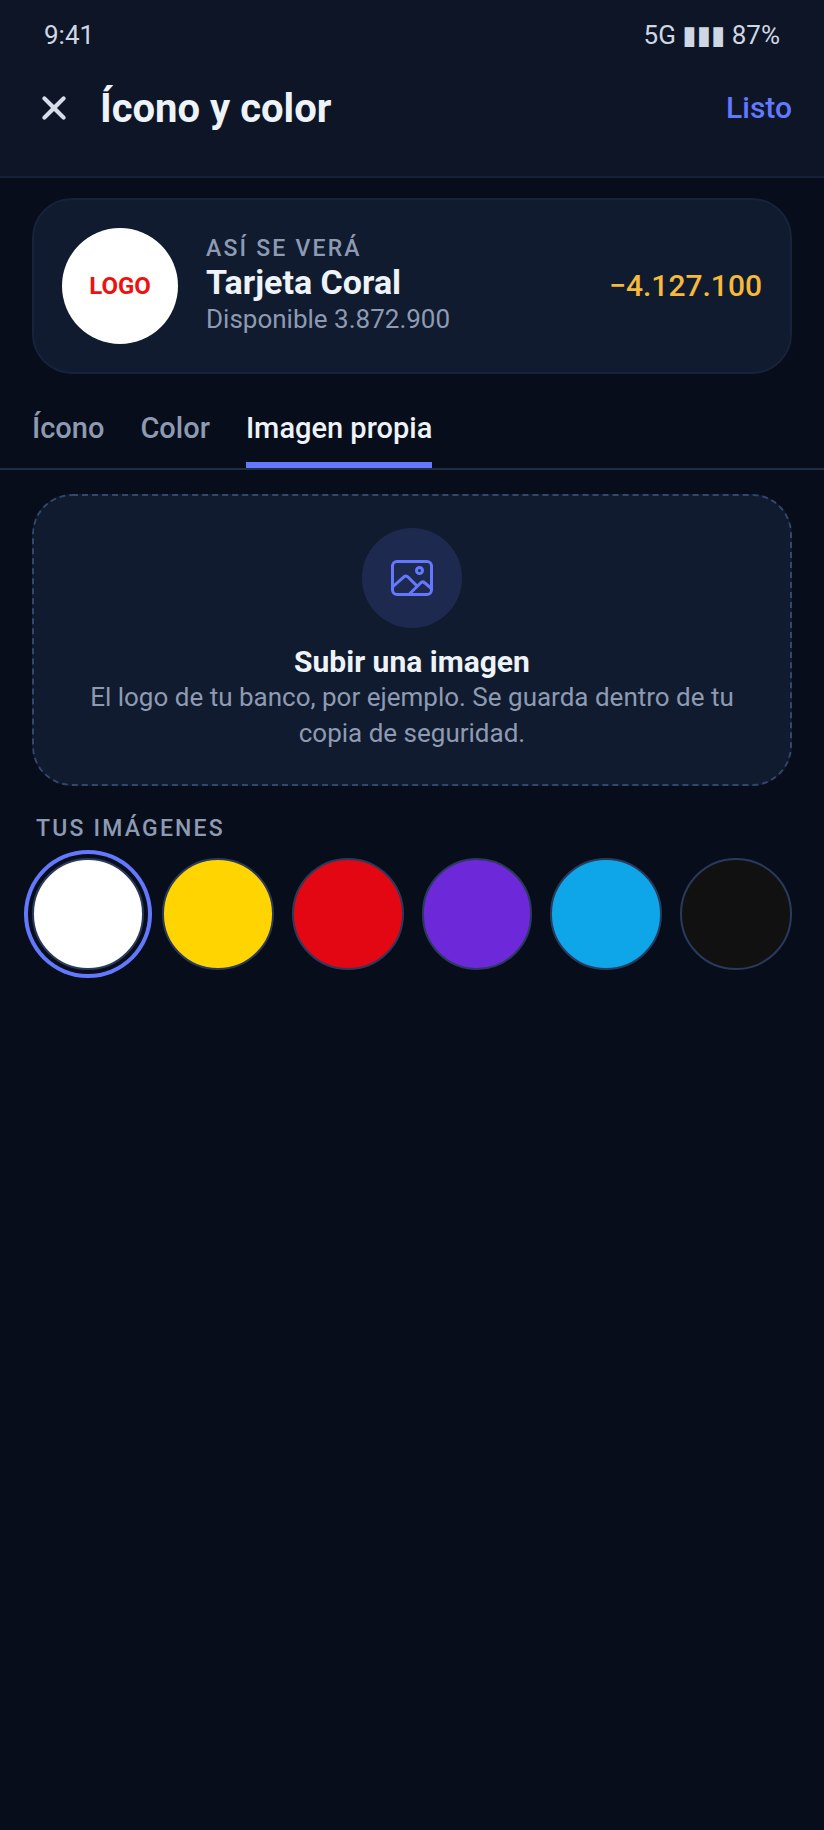
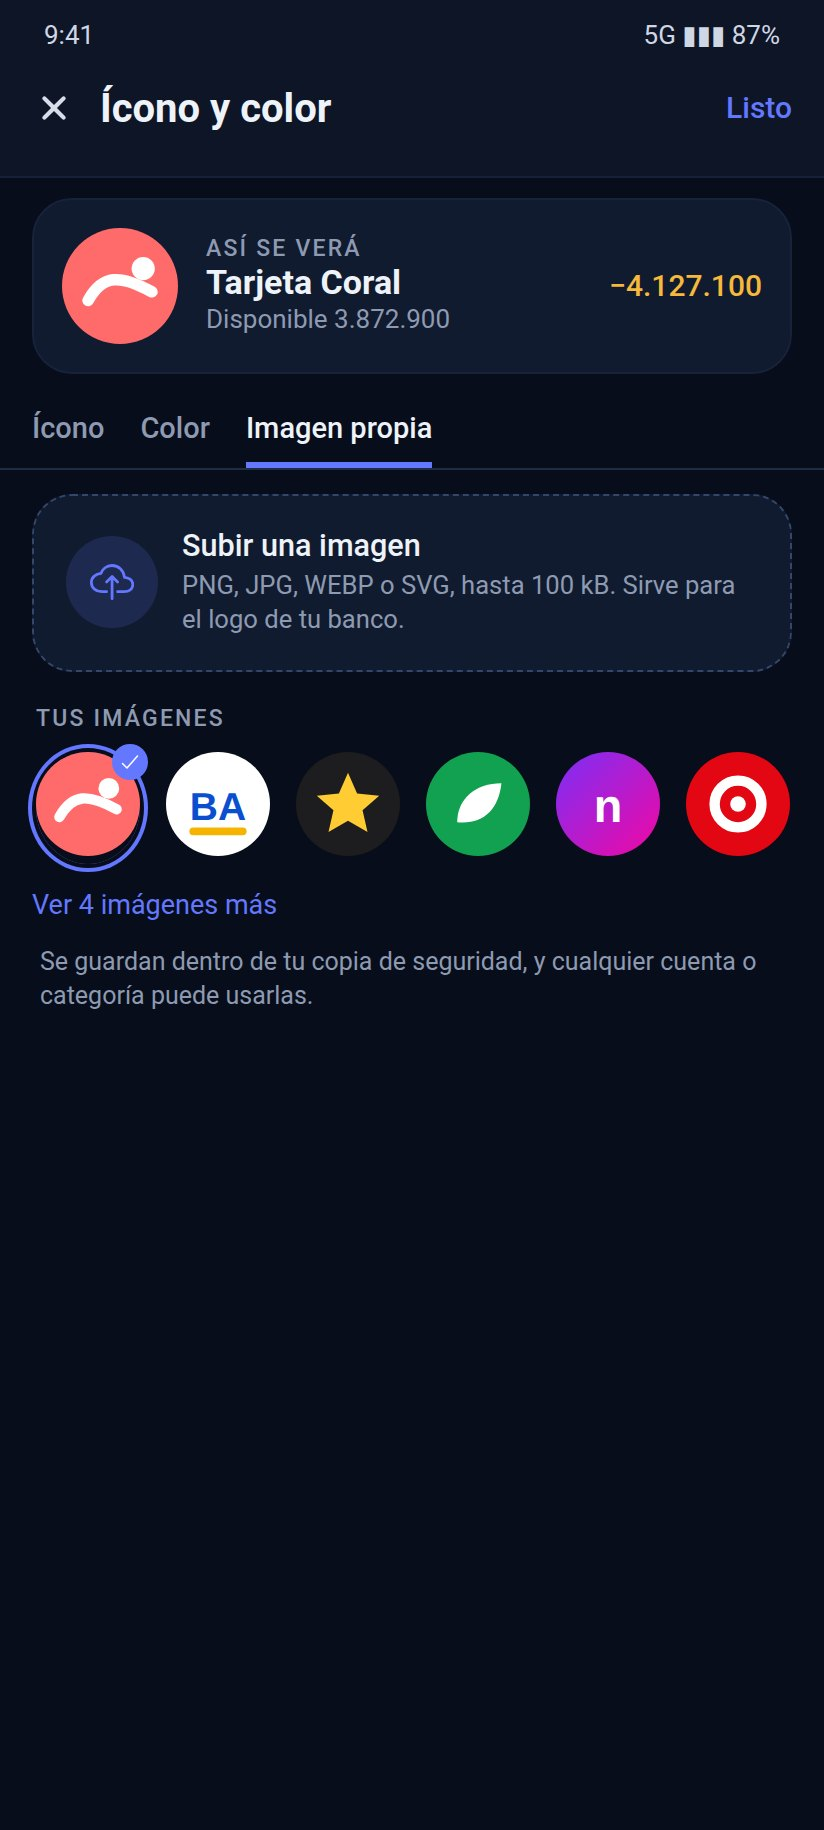
Show own images as images, and edit an account whose face is one
Tus imagenes now draws uploaded logos instead of colour discs, and two new
screens show an account with its own image: the editor opened from the
same pencil, and the colour tab with the colour behind the image.

Claude-Session: https://claude.ai/code/session_01QyUqFix1SMdsKVBtd1Wz88

Changed region(s): [[0.0303, 0.2803, 0.9709, 0.5607], [0.0607, 0.1246, 0.2124, 0.1869], [0.7585, 0.3115, 0.8799, 0.3426]]

diff --git a/docs/mockups/README.md b/docs/mockups/README.md
@@ -19,7 +19,7 @@ is redone, and superseded by Jose's review of 2026-09-28.
 |---|---|
 | `00-azul-opciones` | The accent: Zafiro (recommended), Cobalto, Índigo, and today's |
 | `1a`–`1n` | Group 1 (v5): Inicio (transfers apart, the donut with a capped legend), one account with products (its two quick buttons), one account with a long name (ellipsis and sliding), the "+" sheet, the movement form for spending, writing a note, a transfer, a move between products, two currencies, the account, product and category lists, editing and deleting |
-| `2a`–`2p` | Group 2 (v4): Cuentas (net worth, sorting, a multi-currency account, a card, one set aside), where net worth comes from, currencies and rates, typing a rate, adding a currency, a new account by hand and from a statement (reading it, and the form it fills), editing a card (top and bottom, the limit and its history), deleting, the icon, colour and own image, the archived, and no accounts yet |
+| `2a`–`2r` | Group 2 (v4): Cuentas (net worth, sorting, a multi-currency account, a card, one set aside), where net worth comes from, currencies and rates, typing a rate, adding a currency, a new account by hand and from a statement (reading it, and the form it fills), editing a card (top and bottom, the limit and its history), deleting, the icon, colour and own image, the archived, no accounts yet, an account whose face is its own image (`2q`) and its colour behind that image (`2r`) |
 | `b08`–`b13` | Categories (v3 draft, group 3) (expense, product), and the editor: colour by family, icon, own image, a product category |
 | `c01`–`c11` | Products and yields: the list, an account's sheet with tabs (Productos, Días, Movimientos, Tasas), one day, a product, a CDT, a new rate, a product's own movement, adding an account |
 | `d01`–`d05` | Report (money, yields), reading a statement, Por revisar (and choosing several) |

diff --git a/CLAUDE.md b/CLAUDE.md
@@ -2138,6 +2138,12 @@ redrawn):
   not offer it today.
 - **"Nueva cuenta" is a button in the screen's title bar**; the "+" in the
   bottom bar stays the way to a new movement.
+- **An account's own image is edited like any icon** (Jose, 2026-09-28):
+  the same pencil opens the same editor, where the image is changed for
+  another or for an icon, and the Color tab still works - the colour fills
+  behind the image (a logo with a transparent background takes it) and
+  stays the account's colour elsewhere (`2q`, `2r`). "Tus imágenes" shows
+  the pictures uploaded, never plain colours (`2n` looked like colours).
 
 ### The ideas, by what they would take
 
